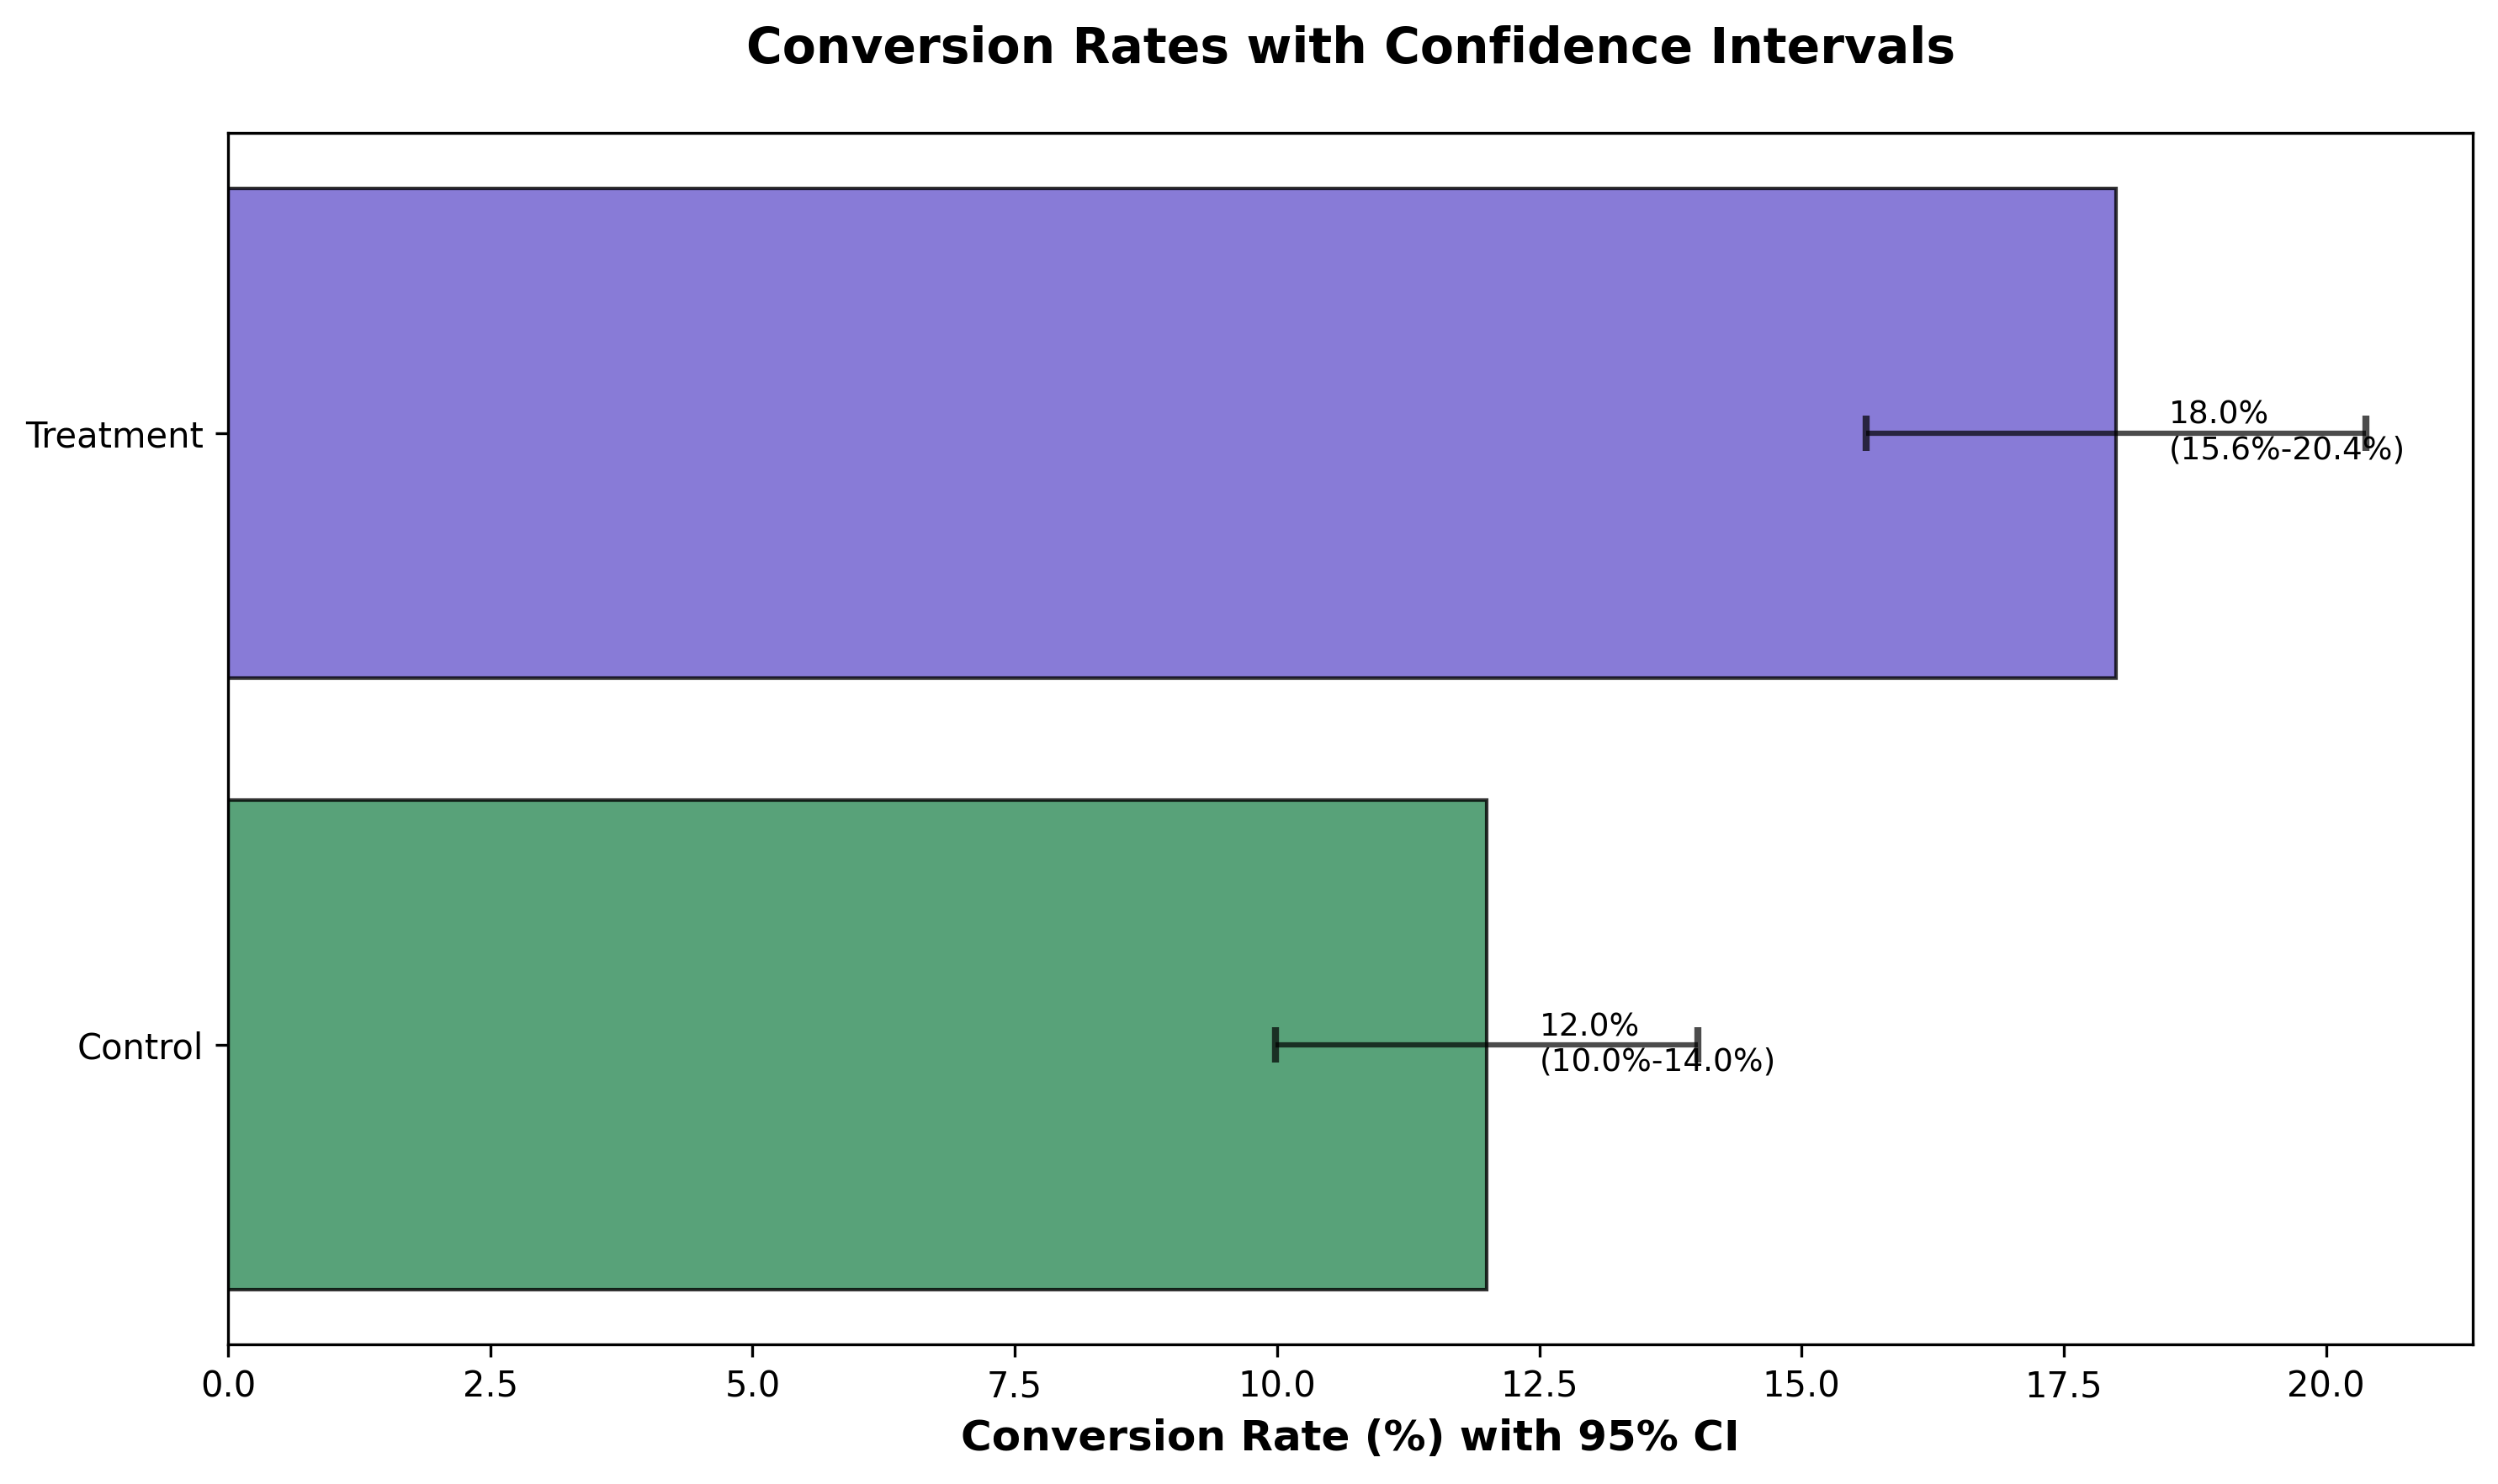
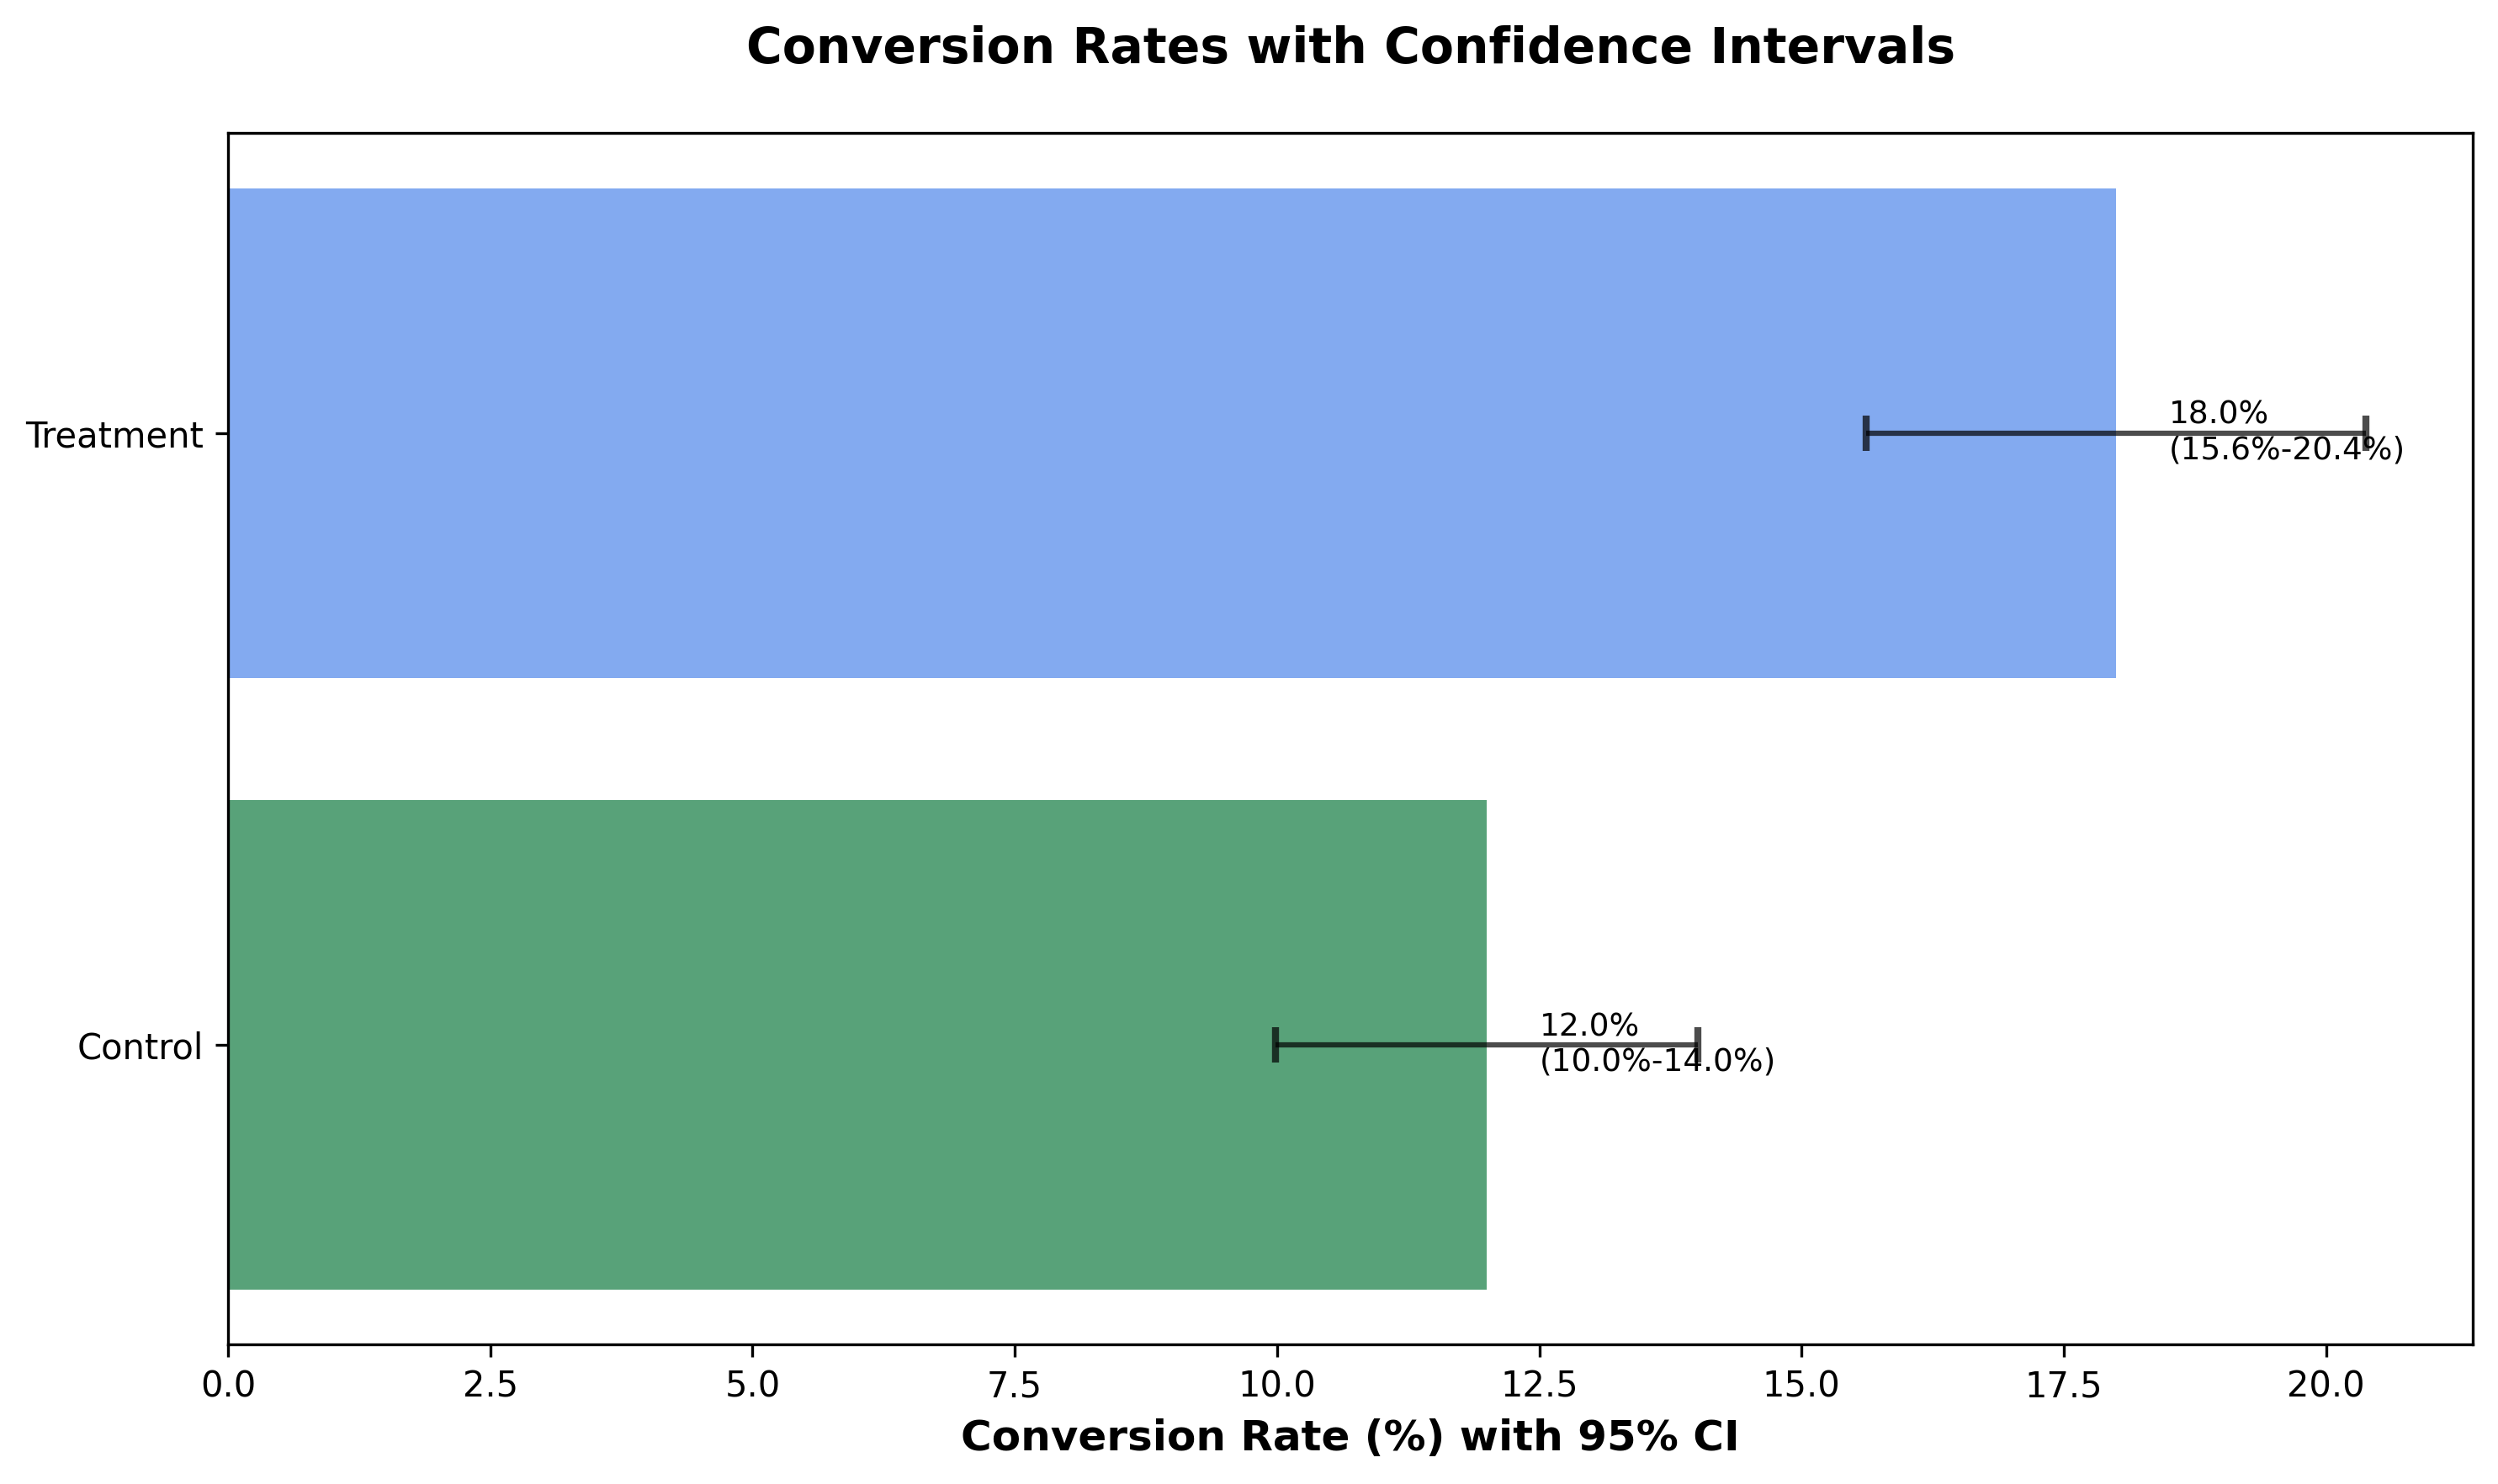
ab update

Changed region(s): [[0.093, 0.1247, 0.8676, 0.4677]]

diff --git a/ab_test/AB Test_v2.py b/ab_test/AB Test_v2.py
@@ -20,6 +20,8 @@ np.random.seed(42)
 # Old webpage (control group) vs New webpage (treatment group)
 print("CHI-SQUARED ANALYSIS FOR A/B TESTING")
 print("EXAMPLE 1: Website Conversion Rate A/B Test")
+print("---------------------------------------------------------------\n")
+
 
 data = {
     'Group': ['Control'] * 1000 + ['Treatment'] * 1000,
@@ -60,8 +62,61 @@ contingency_table = pd.crosstab(df['Group'], df['Converted'])
 print("\nContingency Table:")
 print(contingency_table)
 
+# Assumptions Checks
+print("\nAssumption Checks — Chi-Squared Test of Independence:")
+
+# Assumption 1: Independence of observations
+# Each user is independently and randomly assigned to either Control or Treatment — no user appears in both groups by design.
+print("\n1. Independence of Observations:")
+print("SATISFIED — Each observation is a unique user, randomly assigned to one group only. No user appears in both Control and Treatment.")
+
+# Assumption 2: Minimum expected cell frequency >= 5
+# The chi-squared test relies on an approximation to the chi-squared distribution.
+# This approximation is unreliable when any expected cell count is < 5. All cells must be checked, not just the observed counts.
+print("\n2. Minimum Expected Cell Frequency (all cells must be >= 5):")
+_, _, _, expected_assumption_check = chi2_contingency(contingency_table, correction=False)
+expected_assumption_df = pd.DataFrame(
+    expected_assumption_check,
+    index=contingency_table.index,
+    columns=contingency_table.columns
+)
+print(expected_assumption_df)
+min_expected = expected_assumption_check.min()
+if min_expected >= 5:
+    print(f"SATISFIED — All expected frequencies >= 5 (minimum: {min_expected:.1f})")
+    print("Chi-squared approximation is reliable.")
+else:
+    print(f"VIOLATED — Minimum expected frequency: {min_expected:.1f}")
+    print("Consider Fisher's Exact Test for small-sample 2x2 tables.")
+
+# Assumption 3: Yates' Continuity Correction
+# scipy.stats.chi2_contingency applies Yates' correction by default for 2x2 tables (correction=True).
+# This slightly reduces the chi-squared statistic, making the test more conservative and reducing the risk of a Type I error (false positive).
+# Both values are reported here for transparency — in large samples the difference is typically negligible.
+print("\n3. Yates' Continuity Correction (default for 2x2 tables in scipy):")
+chi2_no_yates, p_no_yates, _, _ = chi2_contingency(contingency_table, correction=False)
+chi2_with_yates, p_with_yates, _, _ = chi2_contingency(contingency_table, correction=True)
+print(f"Without Yates' correction : chi2 = {chi2_no_yates:.4f},  p = {p_no_yates:.6f}")
+print(f"With Yates' correction    : chi2 = {chi2_with_yates:.4f},  p = {p_with_yates:.6f}")
+if p_no_yates < 0.05 and p_with_yates < 0.05:
+    print("ROBUST — Both p-values < 0.05. Conclusion holds regardless of correction.")
+elif p_no_yates < 0.05 and p_with_yates >= 0.05:
+    print("SENSITIVE — Result changes with correction. Interpret with caution.")
+else:
+    print("Both p-values >= 0.05. Conclusion holds regardless of correction.")
+
+# Assumption 4: Sample Size Adequacy
+print("\n4. Sample Size Adequacy:")
+print(f"   Control group:   n = {control_total:,}")
+print(f"   Treatment group: n = {treatment_total:,}")
+print(f"   Total sample:    n = {control_total + treatment_total:,}")
+print("   SATISFIED — Large, balanced sample sizes. The chi-squared")
+print("   approximation is fully reliable at this scale.")
+
 # Perform chi-squared test
 chi2_stat, p_value, dof, expected_freq = chi2_contingency(contingency_table)
+
+chi2_stat_ex1 = chi2_stat   # Preserve Example 1 statistic for the distribution chart below
 
 print("\nChi-Squared Test Results:")
 print(f"Chi-squared statistic: {chi2_stat:.4f}")
@@ -74,7 +129,7 @@ print(pd.DataFrame(expected_freq,
 
 # Interpretation
 alpha = 0.05
-print(f"\nNull hypothesis: There is no variance between the control and sample \nSignificance level (alpha): {alpha}")
+print(f"\nNull hypothesis: There is no difference in conversion rates between the control and treatment groups \nSignificance level (alpha): {alpha}")
 if p_value < alpha:
     print(f"RESULT: Reject null hypothesis (p < {alpha})")
     print("There IS a statistically significant difference between groups.")
@@ -128,7 +183,7 @@ conversion_data = pd.DataFrame({
 })
 
 # colors = ['#3498db', '#e74c3c'] ['#3498db', '#e74c3c']
-colors = ['seagreen', 'slateblue']
+colors = ['seagreen', 'cornflowerblue']
 bars = ax.bar(conversion_data['Group'], conversion_data['Conversion_Rate'], color=colors, alpha=0.8)
 ax.set_ylabel('Conversion Rate (%)', fontsize=11)
 ax.set_title('Conversion Rate by Group', fontsize=12, fontweight='bold')
@@ -142,7 +197,7 @@ for bar in bars:
             f'{height:.1f}%', ha='center', va='bottom', fontsize=10, fontweight='bold')
 
 plt.tight_layout()
-plt.savefig('ab_conversion.png', dpi=300, bbox_inches='tight')
+plt.savefig('plot_01_ab_conversion.png', dpi=300, bbox_inches='tight')
 plt.show()
 
 # Visualization 2: Confidence interval plot
@@ -155,14 +210,13 @@ ci_upper = [control_ci[1], treatment_ci[1]]
 
 y_pos = np.arange(len(groups))
 plt.barh(y_pos, rates, color=colors, alpha=0.8,
-         edgecolor='black', linewidth=1)
+         edgecolor='black', linewidth=0)
 plt.errorbar(rates, y_pos,
              xerr=[[rates[0] - ci_lower[0], rates[1] - ci_lower[1]],
                    [ci_upper[0] - rates[0], ci_upper[1] - rates[1]]],
              fmt='none', color='black', capsize=5, capthick=2, alpha=0.7)
 plt.yticks(y_pos, groups)
 plt.xlabel('Conversion Rate (%) with 95% CI', fontsize=12, fontweight='bold')
-plt.savefig('ab_conversion_ci.png', dpi=300, bbox_inches='tight')
 plt.title('Conversion Rates with Confidence Intervals', fontsize=14, fontweight='bold', pad=20)
 
 # Add value labels
@@ -170,13 +224,87 @@ for i, (rate, lower, upper) in enumerate(zip(rates, ci_lower, ci_upper)):
     plt.text(rate + 0.5, i, f'{rate:.1f}%\n({lower:.1f}%-{upper:.1f}%)',
              va='center', fontsize=9)
 plt.tight_layout()
+plt.savefig('plot_02_ab_conversion_ci.png', dpi=300, bbox_inches='tight')
 plt.show()
+
+# Visualization 3: 100% Stacked Proportion Bar Chart
+# Shows full group composition (converted + not converted) for each group, not just the conversion rate in isolation.
+# This makes the relative scale of the effect immediately apparent and is standard in A/B reporting.
+
+no_pcts = [
+    contingency_table.loc['Control', 'No'] / contingency_table.loc['Control'].sum() * 100,
+    contingency_table.loc['Treatment', 'No'] / contingency_table.loc['Treatment'].sum() * 100
+]
+yes_pcts = [
+    contingency_table.loc['Control', 'Yes'] / contingency_table.loc['Control'].sum() * 100,
+    contingency_table.loc['Treatment', 'Yes'] / contingency_table.loc['Treatment'].sum() * 100
+]
+group_labels = ['Control', 'Treatment']
+
+fig, ax = plt.subplots(figsize=(8, 6))
+bars_no = ax.bar(group_labels, no_pcts, color='darkgrey', alpha=1, label='Not Converted')
+bars_yes = ax.bar(group_labels, yes_pcts, bottom=no_pcts, color='mediumseagreen', alpha=1, label='Converted')
+
+for i, (no, yes) in enumerate(zip(no_pcts, yes_pcts)):
+    ax.text(i, no / 2, f'{no:.1f}%', ha='center', va='center',
+            fontsize=11, fontweight='bold', color='white')
+    ax.text(i, no + yes / 2, f'{yes:.1f}%', ha='center', va='center',
+            fontsize=11, fontweight='bold', color='white')
+
+ax.set_ylabel('Percentage of Group (%)', fontsize=11)
+ax.set_title('Conversion Proportions by Group (100% Stacked)', fontsize=12, fontweight='bold')
+ax.set_ylim(0, 110)
+ax.legend(loc='upper right', fontsize=10)
+ax.grid(axis='y', alpha=0.3, linestyle='--')
+plt.tight_layout()
+plt.savefig('plot_03_conversion_stacked.png', dpi=300, bbox_inches='tight')
+plt.show()
+
+# Visualization 4: Chi-Squared Distribution — Test Statistic vs Critical Value
+# Contextualises the numerical test result by showing where the observed chi-squared statistic sits on the theoretical distribution under H0.
+# The rejection region is shaded and the critical value is marked, making the margin of the result immediately visible.
+
+x_range = np.linspace(0, 20, 1000)
+y_dist = chi2.pdf(x_range, df=1)  # df=1 for a 2x2 contingency table
+critical_val_95 = chi2.ppf(0.95, df=1)  # Critical value at alpha = 0.05, one-tailed
+
+fig, ax = plt.subplots(figsize=(9, 6))
+
+ax.plot(x_range, y_dist, color='steelblue', linewidth=2,
+        label='Chi-squared distribution (df = 1)')
+ax.fill_between(x_range, y_dist, where=(x_range >= critical_val_95),
+                color='#e74c3c', alpha=0.35, label='Rejection region (α = 0.05)')
+ax.axvline(x=chi2_stat_ex1, color='slateblue', linestyle='--', linewidth=2,
+           label=f'Test statistic = {chi2_stat_ex1:.4f}')
+ax.axvline(x=critical_val_95, color='#e74c3c', linestyle=':', linewidth=1.5,
+           label=f'Critical value = {critical_val_95:.4f}')
+
+# Annotate test statistic position
+ax.annotate(f'  χ² = {chi2_stat_ex1:.2f}\n  p = {p_value:.5f}',
+            xy=(chi2_stat_ex1, chi2.pdf(chi2_stat_ex1, df=1)),
+            xytext=(chi2_stat_ex1 + 1.5, chi2.pdf(chi2_stat_ex1, df=1) + 0.05),
+            fontsize=9, color='slateblue',
+            arrowprops=dict(arrowstyle='->', color='slateblue', lw=1.2))
+
+ax.set_xlabel('Chi-squared statistic', fontsize=11)
+ax.set_ylabel('Probability Density', fontsize=11)
+ax.set_title('Chi-Squared Distribution with Test Statistic\n'
+             '(Example 1: Website Conversion Rate A/B Test)', fontsize=12, fontweight='bold')
+ax.legend(fontsize=9)
+ax.set_xlim(0, 20)
+ax.grid(axis='y', alpha=0.3, linestyle='--')
+plt.tight_layout()
+plt.savefig('plot_04_chi2_distribution.png', dpi=300, bbox_inches='tight')
+plt.show()
+
 
 
 # ============================================================================
 # EXAMPLE 2: Email Campaign A/B Test (Three Variants)
 # ============================================================================
 print("\n \nEXAMPLE 2: Email Campaign A/B/C Test (Multiple Variants)")
+print("---------------------------------------------------------------\n")
+
 
 # Testing three different email subject lines
 email_data = {
@@ -216,11 +344,109 @@ if p_value < 0.05:
 else:
     print("No significant difference between variants.")
 
+# Post-hoc Pairwise Comparisons — Example 2 (A/B/C Email Test)
+# When a multi-variant chi-squared test is significant, the omnibus result only tells us that at least one variant differs
+# — it does not tell us which specific pairs drive the difference.
+# Pairwise chi-squared tests are required to isolate those differences.
+#
+# Multiple testing correction: running three pairwise tests at alpha=0.05 each inflates the family-wise Type I error rate.
+# Bonferroni correction divides alpha by the number of comparisons to control for this:
+#   Adjusted alpha = 0.05 / 3 pairs = 0.0167
+
+bonferroni_alpha = 0.05 / 3
+variant_pairs = [('A', 'B'), ('A', 'C'), ('B', 'C')]
+pairwise_p_values = {}
+
+print("\nPOST-HOC PAIRWISE COMPARISONS (Bonferroni-corrected)")
+print(f"Adjusted significance level: alpha / 3 = {bonferroni_alpha:.4f}")
+
+for v1, v2 in variant_pairs:
+    pair_subset = email_df[email_df['Variant'].isin([v1, v2])].copy()
+    pair_table = pd.crosstab(pair_subset['Variant'], pair_subset['Opened'])
+    chi2_pair, p_pair, _, _ = chi2_contingency(pair_table)
+    pairwise_p_values[(v1, v2)] = p_pair
+
+    rate_v1 = (pair_table.loc[v1, 'Yes'] / pair_table.loc[v1].sum()) * 100
+    rate_v2 = (pair_table.loc[v2, 'Yes'] / pair_table.loc[v2].sum()) * 100
+    sig_label = 'Significant *' if p_pair < bonferroni_alpha else 'Not significant'
+
+    print(f"\nVariant {v1} ({rate_v1:.1f}%) vs Variant {v2} ({rate_v2:.1f}%)")
+    print(f"  chi2 = {chi2_pair:.4f},  p = {p_pair:.6f}  →  {sig_label}")
+
+print(f"\nSignificant at Bonferroni-corrected alpha = {bonferroni_alpha:.4f}")
+
+
+# Visualization 5: Email Open Rates with Pairwise Significance Annotations
+# Combines the overall open rate bar chart with significance brackets showing
+# which pairwise comparisons reach the Bonferroni-corrected threshold.
+
+email_open_rates_list = [
+    (email_table.loc['A', 'Yes'] / email_table.loc['A'].sum()) * 100,
+    (email_table.loc['B', 'Yes'] / email_table.loc['B'].sum()) * 100,
+    (email_table.loc['C', 'Yes'] / email_table.loc['C'].sum()) * 100,
+]
+email_variant_labels = ['Variant A', 'Variant B', 'Variant C']
+email_colors = ['seagreen', 'steelblue', 'slateblue']
+
+fig, ax = plt.subplots(figsize=(9, 7))
+bars_email = ax.bar(email_variant_labels, email_open_rates_list,
+                    color=email_colors, alpha=0.8)
+
+for bar in bars_email:
+    height = bar.get_height()
+    ax.text(bar.get_x() + bar.get_width() / 2., height + 0.3,
+            f'{height:.1f}%', ha='center', va='bottom',
+            fontsize=10, fontweight='bold')
+
+
+def significance_bracket(ax, x1, x2, y, h, label, fontsize=9):
+    """Draw a significance bracket between two bar positions."""
+    ax.plot([x1, x1, x2, x2], [y, y + h, y + h, y],
+            color='black', linewidth=1, clip_on=False)
+    ax.text((x1 + x2) / 2, y + h + 0.1, label,
+            ha='center', va='bottom', fontsize=fontsize)
+
+
+ymax = max(email_open_rates_list)
+h = 0.5  # bracket arm height
+
+# A vs B  (x positions: 0 and 1)
+p_AB = pairwise_p_values[('A', 'B')]
+label_AB = f"p = {p_AB:.4f}{'*' if p_AB < bonferroni_alpha else ' (ns)'}"
+significance_bracket(ax, 0, 1, ymax + 2, h, label_AB)
+
+# B vs C  (x positions: 1 and 2)
+p_BC = pairwise_p_values[('B', 'C')]
+label_BC = f"p = {p_BC:.4f}{'*' if p_BC < bonferroni_alpha else ' (ns)'}"
+significance_bracket(ax, 1, 2, ymax + 2, h, label_BC)
+
+# A vs C  (x positions: 0 and 2 — placed highest)
+p_AC = pairwise_p_values[('A', 'C')]
+label_AC = f"p = {p_AC:.4f}{'*' if p_AC < bonferroni_alpha else ' (ns)'}"
+significance_bracket(ax, 0, 2, ymax + 5, h, label_AC)
+
+ax.set_ylabel('Email Open Rate (%)', fontsize=11)
+ax.set_title('Email Open Rates by Variant\nwith Bonferroni-Corrected Pairwise Comparisons',
+             fontsize=12, fontweight='bold')
+ax.set_ylim(0, ymax + 10)
+ax.grid(axis='y', alpha=0.3, linestyle='--')
+
+# Add significance key
+ax.text(0.98, 0.04,
+        f'* p < {bonferroni_alpha:.4f} (Bonferroni-corrected)\nns = not significant',
+        transform=ax.transAxes, fontsize=8, ha='right', va='bottom',
+        bbox=dict(boxstyle='round,pad=0.3', facecolor='lightyellow', alpha=0.8))
+
+plt.tight_layout()
+plt.savefig('plot_05_email_open_rates_pairwise.png', dpi=300, bbox_inches='tight')
+plt.show()
+
 
 # ============================================================================
 # EXAMPLE 3: Mobile App Feature Test
 # ============================================================================
 print("\n \nEXAMPLE 3: Mobile App Feature Test")
+print("---------------------------------------------------------------\n")
 
 # Testing if a new onboarding flow increases user retention
 # Measuring: Did user return after 7 days?
@@ -256,7 +482,7 @@ print(f"P-value: {p_value:.6f}")
 
 # Interpretation
 alpha = 0.05
-print(f"\nNull hypothesis: There is no variance between the control and sample \nSignificance level (alpha): {alpha}")
+print(f"\nNull hypothesis: There is no difference in 7-day retention rates between the Old and New app versions \nSignificance level (alpha): {alpha}")
 if p_value < alpha:
     print(f"RESULT: Reject null hypothesis (p < {alpha})")
     print("There IS a statistically significant difference between groups.")
@@ -276,7 +502,6 @@ print(f"Absolute Difference: {new_rate - old_rate:.2f} percentage points")
 n = app_table.sum().sum()              # Total number of observations
 k = min(app_table.shape)               # Minimum of rows or columns
 cramers_v = (chi2_stat / (n * (k - 1))) ** 0.5
-print(f"Chi-squared statistic: {chi2_stat:.4f}")
 print(f"Cramér's V: {cramers_v:.4f}")
 
 print("Interpretation: ", end="")
@@ -297,6 +522,7 @@ else:
 # Power = Probability of rejecting the null hypothesis when it's actually false
 # Note, alpha is 5% chance of false positive
 print("\n \nEXAMPLE 4: Sample Size and Power Analysis")
+print("---------------------------------------------------------------\n")
 
 def minimum_sample_size(p1, p2, alpha=0.05, power=0.80):
     """
@@ -353,6 +579,8 @@ print(f"Total participants needed: {min_n * 2:,}")
 # SUMMARY AND BEST PRACTICES
 # ============================================================================
 print("\n\nBEST PRACTICES FOR CHI-SQUARED A/B TESTING")
+print("---------------------------------------------------------------\n")
+
 
 best_practices = """
 1. SAMPLE SIZE